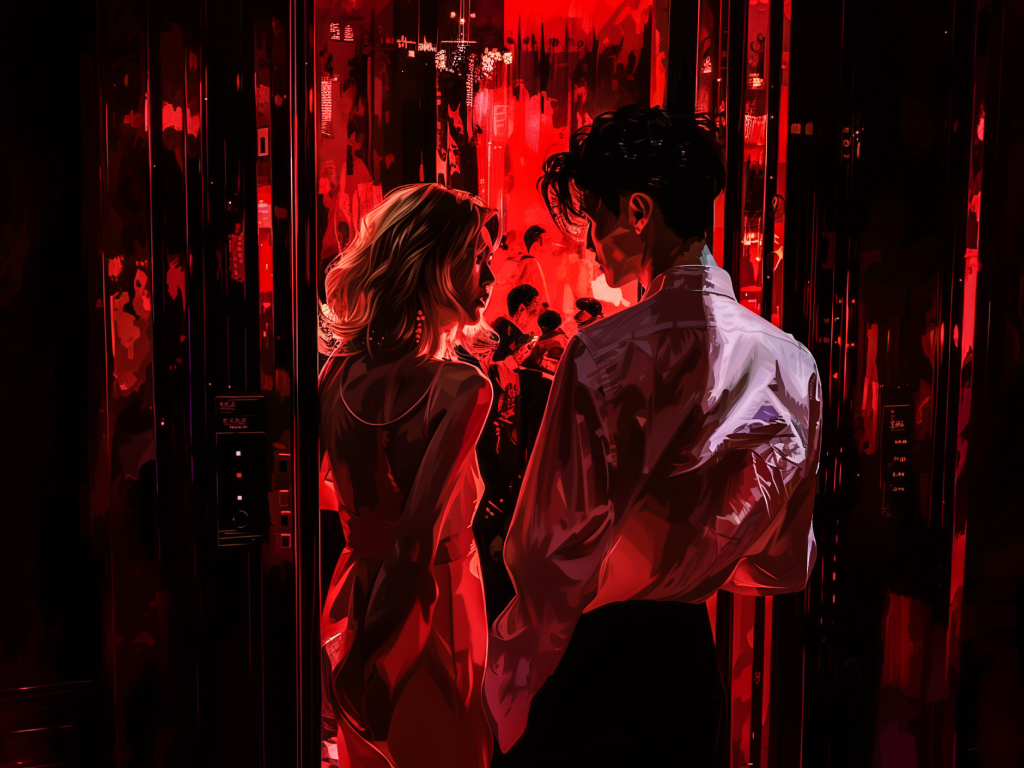
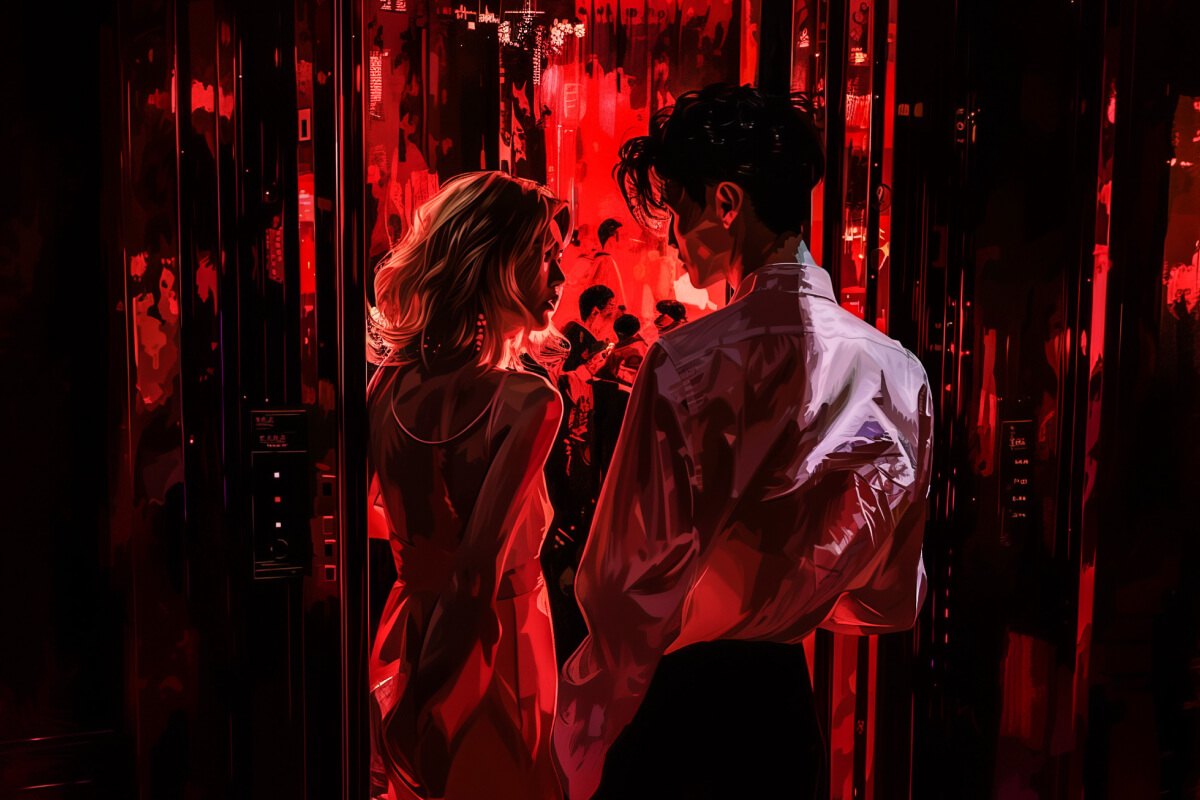
Added random ref and skip over existing images

diff --git a/templates/index.html b/templates/index.html
@@ -8,16 +8,28 @@
     <script>
         function fetchMemories() {
             $.getJSON('/memories', function(data) {
-                $('#cell-1').empty();
+                const skippedCells = [3, 5, 9, 11, 13, 17, 19];
+                let cellNumber = 1;
+
                 data.forEach(function(item) {
-                    var messageHtml = '<img src="/static/images/generated/' + 
-                        item.image_filename +
-                        '" alt="">' +
-                        '<p><em>' +
-                        item.claude_response +
-                        '</em></p>';
-                    $('#cell-1').append(messageHtml);
-                });
+                    if (skippedCells.includes(cellNumber)) {
+                        console.log("Skipping " + cellNumber);
+                        cellNumber++;
+                    }
+                    
+                    $(`#cell-${cellNumber}`).empty();
+
+                    var messageHtml = '<img src="/static/images/generated/' 
+                        + item.image_filename 
+                        + '" alt="">'
+                        + '<p><em>'
+                        + item.prompt
+                        + '</em></p>';
+
+                    $(`#cell-${cellNumber}`).append(messageHtml);
+
+                    cellNumber++;
+                })
             });
         }
 
@@ -50,7 +62,7 @@
             overflow: hidden;
             display: flex;
             flex-direction: column;
-            justify-content: center;
+            justify-content: flex-start;
             align-items: center;
         }
 

diff --git a/app.py b/app.py
@@ -4,6 +4,8 @@ import anthropic
 import os
 import logging
 import requests
+import random
+import ast
 from io import BytesIO
 from PIL import Image
 import time
@@ -30,14 +32,18 @@ def send_generation_request(prompt, negative_prompt=""):
     host = "https://api.stability.ai/v2beta/stable-image/control/style"
     headers = {"Accept": "image/*", "Authorization": f"Bearer {stability_api_key}"}
 
+    references = ['amber.jpg', 'blind.jpg', 'fake.jpg', 'frank.jpg', 'wrong.jpg', 'zouk.jpg']
+    reference_image = random.choice(references)
+    image_path = os.path.join("static", "images", "gallery", reference_image)
+
     params = {
         "fidelity": (None, "0.5"),
-        "image": os.path.join("static", "images", "reference", "style-all.jpg"),
+        "image": image_path,
         "seed": (None, "0"),
         "output_format": (None, "png"),
         "prompt": (None, prompt),
         "negative_prompt": (None, negative_prompt),
-        "aspect_ratio": (None, "16:9"),
+        "aspect_ratio": (None, "3:2"),
     }
 
     files = {}
@@ -73,10 +79,42 @@ def generate_and_save_image(prompt):
         return None
 
 
-def get_claude_response(message):
-    prompt = f"""Generate a short, creative description 
-        for an art piece based on this message: '{message}'. 
-        Keep it under 50 words."""
+def get_image_prompts(message):
+    prompt = f"""We're working on an art installation about memory. 
+    We want to take a single, user-submitted memory and have an image
+    generator (Stable Diffusion) create 4 versions of it. 
+    
+    1 version should be as close to the original as possible, while 
+    the other 3 should contain notable deviations without losing the
+    original completely. 
+
+    Please generate 4 image prompts based on this user-submitted message: 
+    ```
+    {message}
+    ```
+
+    The user was asked to submit a memory as their message. They may or 
+    may not have done so, since we cannot control user input. Do your best 
+    to generate 4 prompts that will result in evocative, stylized 'memories'.
+    
+    For each prompt:
+
+    - Start with "Detailed painting of" for stylistic consistency
+    - Make sure every prompt includes at least one person, but you can include more
+    - Include a different 'camera angle' ie. wide shot, close up, top down, etc
+    - Include a different lighting instruction ie. "blue-lit scene", 
+    "yellow sunlight" etc
+
+    Send each prompt as a element in a python list, for example:
+    ```
+    ["Prompt 1", "Prompt 2", "Prompt 3", "Prompt 4"]
+    ```
+
+    DO NOT INCLUDE ANYTHING IN YOUR RESPONSE OTHER THAN THE LIST.
+    Your response will be consumed by a pipeline, and deviating 
+    from the list format will break the pipeline.
+    """
+
     try:
         response = client.messages.create(
             model="claude-3-sonnet-20240229",
@@ -110,18 +148,19 @@ def sms_reply():
     message_body = request.form["Body"]
     logging.debug(f"Text received: {message_body}")
 
-    claude_response = get_claude_response(message_body)
-    logging.debug(f"Claude responded: {claude_response}")
+    prompts = get_image_prompts(message_body)
+    logging.debug(f"Claude responded: {prompts}")
 
-    image_filename = generate_and_save_image(claude_response)
+    prompts = ast.literal_eval(prompts)
 
-    memories.append(
-        {
-            "message": message_body,
-            "claude_response": claude_response,
-            "image_filename": image_filename,
-        }
-    )
+    for prompt in prompts:
+        image_filename = generate_and_save_image(prompt)
+        memories.append(
+            {
+                "prompt": prompt,
+                "image_filename": image_filename,
+            }
+        )
 
     logging.debug(f"Memories after append: {memories}")
 
